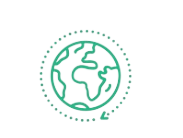
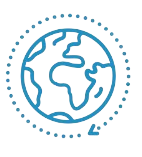
101

diff --git a/src/assets/components/Navbar.jsx b/src/assets/components/Navbar.jsx
@@ -22,47 +22,47 @@ const Navbar = ({ scrollToHome, scrollToAbout, scrollToPortfolio, scrollToServic
   };
 
   return (
-    <nav className="flex justify-between items-center p-4 bg-text shadow-md md:h-auto sm:h-auto h-[10vh]">
+    <nav className="flex justify-between items-center p-4 bg-nav shadow-md md:h-auto sm:h-auto h-[10vh]">
       <div className="flex items-center">
         <img src={Logo} alt="Logo" className="mr-2 pl-2 sm:pl-9" style={{ height: '76px', width: 'auto' }} />
         <div className="hidden lg:flex flex-wrap">
           <h3
-            className={`Montserrat text-sm font-normal px-2 sm:px-4 ${activeLink === 'home' ? 'text-accent border-b-2 border-accent' : 'text-primary'}`}
+            className={`Montserrat text-sm font-normal px-2 sm:px-4 ${activeLink === 'home' ? 'text-cl border-b-2 border-cl' : 'text-primary'}`}
             onClick={() => handleClick('home')}
             style={{ cursor: 'pointer' }}
           >
             Home
           </h3>
           <h3
-            className={`Montserrat text-sm font-normal px-2 sm:px-4 ${activeLink === 'about' ? 'text-accent border-b-2 border-accent' : 'text-primary'}`}
+            className={`Montserrat text-sm font-normal px-2 sm:px-4 ${activeLink === 'about' ? 'text-cl border-b-2 border-cl' : 'text-primary'}`}
             onClick={() => handleClick('about')}
             style={{ cursor: 'pointer' }}
           >
             About Us
           </h3>
           <h3
-            className={`Montserrat text-sm font-normal px-2 sm:px-4 ${activeLink === 'portfolio' ? 'text-accent border-b-2 border-accent' : 'text-primary'}`}
+            className={`Montserrat text-sm font-normal px-2 sm:px-4 ${activeLink === 'portfolio' ? 'text-cl border-b-2 border-cl' : 'text-primary'}`}
             onClick={() => handleClick('portfolio')}
             style={{ cursor: 'pointer' }}
           >
             Portfolio
           </h3>
           <h3
-            className={`Montserrat text-sm font-normal px-2 sm:px-4 ${activeLink === 'services' ? 'text-accent border-b-2 border-accent' : 'text-primary'}`}
+            className={`Montserrat text-sm font-normal px-2 sm:px-4 ${activeLink === 'services' ? 'text-cl border-b-2 border-cl' : 'text-primary'}`}
             onClick={() => handleClick('services')}
             style={{ cursor: 'pointer' }}
           >
             Services
           </h3>
           <h3
-            className={`Montserrat text-sm font-normal px-2 sm:px-4 ${activeLink === 'caseStudies' ? 'text-accent border-b-2 border-accent' : 'text-primary'}`}
+            className={`Montserrat text-sm font-normal px-2 sm:px-4 ${activeLink === 'caseStudies' ? 'text-cl border-b-2 border-cl' : 'text-primary'}`}
             onClick={() => handleClick('caseStudies')}
             style={{ cursor: 'pointer' }}
           >
             Case Studies
           </h3>
           <h3
-            className={`Montserrat text-sm font-normal px-2 sm:px-4 ${activeLink === 'blog' ? 'text-accent border-b-2 border-accent' : 'text-primary'}`}
+            className={`Montserrat text-sm font-normal px-2 sm:px-4 ${activeLink === 'blog' ? 'text-cl border-b-2 border-cl' : 'text-primary'}`}
             onClick={() => handleClick('blog')}
             style={{ cursor: 'pointer' }}
           >
@@ -73,7 +73,7 @@ const Navbar = ({ scrollToHome, scrollToAbout, scrollToPortfolio, scrollToServic
       <div className="flex items-center">
         <a
           href="https://docs.google.com/forms/d/e/1FAIpQLSca1d_VziUAaJkVwPme1GjK-yVKLrc14dqsjOec8dl1GIcxWg/viewform"
-          className="bg-accent/90 hover:bg-accent/100 text-white font-bold py-2 px-4 rounded-lg hidden lg:block"
+          className="bg-cl/90 hover:bg-cl/100 text-white font-bold py-2 px-4 rounded-lg hidden lg:block"
           style={{ marginRight: '1rem' }}
         >
           Start Now
@@ -88,42 +88,42 @@ const Navbar = ({ scrollToHome, scrollToAbout, scrollToPortfolio, scrollToServic
       {isDropdownOpen && (
         <div className="lg:hidden flex flex-col items-end bg-black text-white w-48 absolute right-0 py-2 shadow-md z-10" style={{ top: 'calc(100% + 1rem)' }}>
           <h3
-            className={`Montserrat text-sm font-normal px-4 py-2 w-full ${activeLink === 'home' ? 'text-accent border-b-2 border-accent' : 'text-white'}`}
+            className={`Montserrat text-sm font-normal px-4 py-2 w-full ${activeLink === 'home' ? 'text-cl border-b-2 border-cl' : 'text-white'}`}
             onClick={() => handleClick('home')}
             style={{ cursor: 'pointer' }}
           >
             Home
           </h3>
           <h3
-            className={`Montserrat text-sm font-normal px-4 py-2 w-full ${activeLink === 'about' ? 'text-accent border-b-2 border-accent' : 'text-white'}`}
+            className={`Montserrat text-sm font-normal px-4 py-2 w-full ${activeLink === 'about' ? 'text-cl border-b-2 border-cl' : 'text-white'}`}
             onClick={() => handleClick('about')}
             style={{ cursor: 'pointer' }}
           >
             About Us
           </h3>
           <h3
-            className={`Montserrat text-sm font-normal px-4 py-2 w-full ${activeLink === 'portfolio' ? 'text-accent border-b-2 border-accent' : 'text-white'}`}
+            className={`Montserrat text-sm font-normal px-4 py-2 w-full ${activeLink === 'portfolio' ? 'text-cl border-b-2 border-cl' : 'text-white'}`}
             onClick={() => handleClick('portfolio')}
             style={{ cursor: 'pointer' }}
           >
             Portfolio
           </h3>
           <h3
-            className={`Montserrat text-sm font-normal px-4 py-2 w-full ${activeLink === 'services' ? 'text-accent border-b-2 border-accent' : 'text-white'}`}
+            className={`Montserrat text-sm font-normal px-4 py-2 w-full ${activeLink === 'services' ? 'text-cl border-b-2 border-cl' : 'text-white'}`}
             onClick={() => handleClick('services')}
             style={{ cursor: 'pointer' }}
           >
             Services
           </h3>
           <h3
-            className={`Montserrat text-sm font-normal px-4 py-2 w-full ${activeLink === 'caseStudies' ? 'text-accent border-b-2 border-accent' : 'text-white'}`}
+            className={`Montserrat text-sm font-normal px-4 py-2 w-full ${activeLink === 'caseStudies' ? 'text-cl border-b-2 border-cl' : 'text-white'}`}
             onClick={() => handleClick('caseStudies')}
             style={{ cursor: 'pointer' }}
           >
             Case Studies
           </h3>
           <h3
-            className={`Montserrat text-sm font-normal px-4 py-2 w-full ${activeLink === 'blog' ? 'text-accent border-b-2 border-accent' : 'text-white'}`}
+            className={`Montserrat text-sm font-normal px-4 py-2 w-full ${activeLink === 'blog' ? 'text-cl border-b-2 border-cl' : 'text-white'}`}
             onClick={() => handleClick('blog')}
             style={{ cursor: 'pointer' }}
           >

diff --git a/src/assets/components/Services.jsx b/src/assets/components/Services.jsx
@@ -122,10 +122,10 @@ const Services = () => {
 
   return (
     <section className="about-us flex flex-col items-center py-10 px-4 md:px-10" style={{ paddingTop: '4rem' }}>
-      <h2 className="Monsterrat text-5xl md:text-3xl justify-center font-bold text-accent text-center">
-        We Provide <span className="text-5xl md:text-3xl font-light text-accent">videos in following</span>
+      <h2 className="Monsterrat text-5xl md:text-3xl justify-center font-bold text-cl text-center">
+        We Provide <span className="text-5xl md:text-3xl font-light text-cl">videos in following</span>
       </h2>
-      <h2 className="Monsterrat text-5xl md:text-3xl justify-center font-light mt-2 mb-12 text-accent text-center" style={{ paddingBottom: '4rem' }}>
+      <h2 className="Monsterrat text-5xl md:text-3xl justify-center font-light mt-2 mb-12 text-cl text-center" style={{ paddingBottom: '4rem' }}>
         industries
       </h2>
       <div className="flex flex-wrap justify-center mt-4">
@@ -135,7 +135,7 @@ const Services = () => {
           return (
             <div
               key={index}
-              className={`Monsterrat mx-2 md:mx-4 cursor-pointer font-semibold text-center ${selectedHeading === heading ? 'text-green-500 border-b-2 border-green-500' : ''}`}
+              className={`Monsterrat mx-2 md:mx-4 cursor-pointer font-semibold text-center ${selectedHeading === heading ? 'text-cl border-b-2 border-cl' : ''}`}
               onClick={() => {
                 setSelectedHeading(heading);
                 setCurrentImageGroup(0);
@@ -174,7 +174,7 @@ const Services = () => {
           {[...Array(totalGroups)].map((_, index) => (
             <div
               key={index}
-              className={`mx-1 md:mx-2 cursor-pointer rounded-full w-3 h-3 md:w-4 md:h-4 ${currentImageGroup === index ? 'bg-green-500' : 'bg-gray-300'}`}
+              className={`mx-1 md:mx-2 cursor-pointer rounded-full w-3 h-3 md:w-4 md:h-4 ${currentImageGroup === index ? 'bg-cl' : 'bg-gray-300'}`}
               onClick={() => setCurrentImageGroup(index)}
             ></div>
           ))}

diff --git a/src/assets/components/AboutUs.jsx b/src/assets/components/AboutUs.jsx
@@ -30,8 +30,8 @@ const AboutUs = () => {
 
   return (
     <section className="about-us flex flex-col items-center py-10" style={{ paddingTop: '7rem' }}>
-      <h2 className="text-5xl md:text-3xl font-bold mb-8 text-accent" style={{ paddingBottom: '7rem' }}>What We Do</h2>
-      <div className="bg-gray-100 p-10 rounded-lg w-full flex flex-col items-center justify-center">
+      <h2 className="text-5xl md:text-3xl font-bold mb-8 text-cl" style={{ paddingBottom: '7rem' }}>What We Do</h2>
+      <div className="bg-gray-50 shadow-lg p-10 rounded-lg w-full flex flex-col items-center justify-center">
         <div className="Monsterrat max-w-3xl text-center mb-12">
           <p className="Monsterrat text-lg md:text-base">
             LetsArc Media offer our video making services which not only put forward your products and offerings to your target audience but it also conveys your thoughts, your philosophy, and your passion to them. Our videos, apart from being eye-catchy, also make an impact which in turn gets your company, product, or services registered in the mind of the audience. Our each video contains these four elements abbreviated as COSE.
@@ -44,7 +44,7 @@ const AboutUs = () => {
                 <img src={card.imgSrc} alt={card.title} className="mb-2" style={{ height: '15vh' }} />
                 <p className="text-ab">{card.title}</p>
               </div>
-              <div className="box-back absolute w-full h-full shadow-xl backface-hidden transform rotate-y-180 transition-transform duration-200 flex flex-col items-center justify-center bg-accent p-4 border border-gray-300 rounded-lg "style={{width:'115%',height:'115%'}}>
+              <div className="box-back absolute w-full h-full shadow-xl backface-hidden transform rotate-y-180 transition-transform duration-200 flex flex-col items-center justify-center bg-cl p-4 border border-gray-300 rounded-lg "style={{width:'115%',height:'115%'}}>
                 <p className="text-white text-base">{card.description}</p>
               </div>
             </div>

diff --git a/src/assets/components/Have.jsx b/src/assets/components/Have.jsx
@@ -9,11 +9,11 @@ const texts = ['Fill Our Contact Form', 'You Will Be Contacted By Our Experts', 
 const Have = () => {
   return (
     <section className="about-us flex flex-col items-center py-10 pt-28">
-      <h2 className="text-5xl md:text-3xl font-bold text-accent text-center pb-16">Have a Project?</h2>
+      <h2 className="text-5xl md:text-3xl font-bold text-cl text-center pb-16">Have a Project?</h2>
       <div className="p-6 md:p-10 rounded-lg w-full flex flex-col items-center justify-center min-h-[70vh]">
-        <div className="grid grid-cols-2 md:grid-cols-4 lg:grid-cols-4 gap-8 md:gap-12 -mt-16">
+        <div className="grid grid-cols-2 md:grid-cols-4 lg:grid-cols-4 gap-10 md:gap-12 -mt-16">
           {[Img1, Img2, Img3, Img4].map((imgSrc, index) => (
-            <div key={index} className="relative w-full h-auto lg:w-56 lg:h-96 md:w-44 md:h-48 sm:w-28 sm:h-40">
+            <div key={index} className="relative w-full h-auto lg:w-60 lg:h-96 md:w-44 md:h-48 sm:w-28 sm:h-40">
               <img src={imgSrc} alt={`Process ${index + 1}`} className="w-full h-full object-cover rounded-xl md:h-60"style={{height:'32rem'}} />
               <div className="absolute inset-0 flex items-center justify-center">
                 <p className="Monsterrat text-black text-xs sm:text-sm md:text-base lg:text-lg font-semibold text-center lg:pt-40 md:pt-80">
@@ -25,7 +25,7 @@ const Have = () => {
         </div>
         <a
           href="https://docs.google.com/forms/d/e/1FAIpQLSca1d_VziUAaJkVwPme1GjK-yVKLrc14dqsjOec8dl1GIcxWg/viewform"
-          className="bg-accent/90 hover:bg-accent/100 text-white font-bold py-4 px-6 md:px-12 rounded-xl items-center justify-center text-center lg:translate-y-40 mt-1 mb-16 md:mt-96"
+          className="bg-cl/90 hover:bg-cl/100 text-white font-bold py-4 px-6 md:px-12 rounded-xl items-center justify-center text-center lg:translate-y-40 mt-1 mb-16 md:mt-96"
           style={{ position: 'relative', zIndex: '5' }}
         >
           Fill Your Project Details

diff --git a/src/assets/components/Portfolio.jsx b/src/assets/components/Portfolio.jsx
@@ -76,18 +76,18 @@ const Portfolio = () => {
         <div className="relative py-10 rounded-lg" style={{ height: '35rem' }}>
           <div className="icon-frame flex justify-around py-5 bg-gray-100 rounded-2xl z-20 shadow-xl mx-auto absolute pt-14 top-0 left-1/2 transform -translate-x-1/2" style={{ width: '50%', zIndex: 20, height: '15rem' }}>
             <div className="icon-item text-center">
-              <img src={Icon1} alt="Icon 1" className="h-16 mb-1 ml-6" />
-              <h3 className="Montserrat font-bold text-2xl text-gray-400" style={{ paddingBottom: '0.5rem' }}>200+ </h3>
+              <img src={Icon1} alt="Icon 1" className="h-16 mb-1 ml-8" />
+              <h3 className="Montserrat font-bold text-2xl text-ds/80" style={{ paddingBottom: '0.5rem' }}>200+ </h3>
               <p className="Montserrat text-sm">Client Videos Made</p>
             </div>
             <div className="icon-item text-center">
-              <img src={Icon2} alt="Icon 2" className="h-16 mb-1 ml-6" />
-              <h3 className="Montserrat font-bold text-2xl text-gray-400" style={{ paddingBottom: '0.5rem' }}>2+</h3>
+              <img src={Icon2} alt="Icon 2" className="h-16 mb-1 ml-9" />
+              <h3 className="Montserrat font-bold text-2xl text-ds/80" style={{ paddingBottom: '0.5rem' }}>2+</h3>
               <p className="Montserrat text-sm">Available Countries</p>
             </div>
             <div className="icon-item text-center">
-              <img src={Icon3} alt="Icon 3" className="h-16 mb-1 ml-9" />
-              <h3 className="Montserrat font-bold text-2xl text-gray-400" style={{ paddingBottom: '0.5rem' }}>5+</h3>
+              <img src={Icon3} alt="Icon 3" className="h-16 mb-1 ml-11" />
+              <h3 className="Montserrat font-bold text-2xl text-ds/80" style={{ paddingBottom: '0.5rem' }}>5+</h3>
               <p className="Montserrat text-sm">Years of Experienced Team</p>
             </div>
           </div>

diff --git a/src/assets/components/Start.jsx b/src/assets/components/Start.jsx
@@ -3,8 +3,8 @@ import React from 'react';
 const Start = () => {
   return (
     <section className="about-us flex flex-col items-center py-10" style={{ paddingTop: '7rem' }}>
-      <h2 className="text-5xl md:text-3xl font-bold mb-8 text-accent" style={{ paddingBottom: '7rem' }}>Start Now</h2>
-      <div className="bg-gray-100 p-6 md:p-10 rounded-lg w-full flex flex-col items-center justify-center h-[70vh] md:h-auto sm:h-[40vh]">
+      <h2 className="text-5xl md:text-3xl font-bold mb-8 text-cl" style={{ paddingBottom: '7rem' }}>Start Now</h2>
+      <div className="bg-gray-50 shadow-lg p-6 md:p-10 rounded-lg w-full flex flex-col items-center justify-center h-[70vh] md:h-auto sm:h-[40vh]">
         <div className="Montserrat max-w-2xl text-center mb-8">
           <p className="Montserrat text-2xl font-medium md:text-lg md:font-normal">
             Connect with our experts to make dedicated videos for you and your business so that you can have an edge above others.
@@ -12,7 +12,7 @@ const Start = () => {
         </div>
         <a
           href="https://docs.google.com/forms/d/e/1FAIpQLSca1d_VziUAaJkVwPme1GjK-yVKLrc14dqsjOec8dl1GIcxWg/viewform"
-          className="bg-accent/90 hover:bg-accent/100 text-white font-bold py-4 px-12 md:py-2 md:px-8 rounded-xl"
+          className="bg-cl/90 hover:bg-cl/100 text-white font-bold py-4 px-12 md:py-2 md:px-8 rounded-xl"
           style={{ position: 'relative', zIndex: '5' }}
         >
           Fill Your Project Details

diff --git a/src/assets/components/Blog.jsx b/src/assets/components/Blog.jsx
@@ -43,7 +43,7 @@ const Blog = () => {
 
   return (
     <section className="about-us flex flex-col items-center py-10" style={{ paddingTop: '7rem' }}>
-      <h2 className="text-5xl md:text-3xl lg:text-5xl font-bold mb-8 text-accent" style={{ paddingBottom: '4rem' }}>Blog Posts</h2>
+      <h2 className="text-5xl md:text-3xl lg:text-5xl font-bold mb-8 text-cl" style={{ paddingBottom: '4rem' }}>Blog Posts</h2>
       <div className="bg-black p-4 md:p-6 lg:p-10 rounded-lg w-full flex flex-col items-center justify-center md:h-auto sm:h-auto h-[85vh]">
         <div className="grid grid-cols-5 sm:grid-cols-2 md:grid-cols-3 gap-2 md:gap-4">
           {groups[currentIndex].map((image, index) => (
@@ -61,7 +61,7 @@ const Blog = () => {
             <span
               key={index}
               onClick={() => setCurrentIndex(index)}
-              className={`h-2 w-2 md:h-3 md:w-3 lg:h-4 lg:w-4 mx-1 rounded-full cursor-pointer ${index === currentIndex ? 'bg-accent' : 'bg-gray-500'}`}
+              className={`h-2 w-2 md:h-3 md:w-3 lg:h-4 lg:w-4 mx-1 rounded-full cursor-pointer ${index === currentIndex ? 'bg-cl' : 'bg-gray-500'}`}
             />
           ))}
         </div>

diff --git a/src/assets/components/Case.jsx b/src/assets/components/Case.jsx
@@ -54,8 +54,8 @@ const Case = () => {
 
   return (
     <section className="about-us flex flex-col items-center py-10" style={{ paddingTop: '7rem' }}>
-      <h2 className="text-5xl md:text-3xl font-bold mb-8 text-accent text-center" style={{ paddingBottom: '7rem' }}>What Clients Say</h2>
-      <div className="relative bg-gray-100 p-10 md:p-6 rounded-lg w-full flex flex-col items-center justify-center md:h-auto sm:h-auto h-[70vh]">
+      <h2 className="text-5xl md:text-3xl font-bold mb-8 text-cl text-center" style={{ paddingBottom: '7rem' }}>What Clients Say</h2>
+      <div className="relative bg-gray-50 shadow-lg p-10 md:p-6 rounded-lg w-full flex flex-col items-center justify-center md:h-auto sm:h-auto h-[70vh]">
         <div className={`text-center transition-opacity duration-500 ease-in-out ${isAnimating ? 'opacity-0' : 'opacity-100'}`}>
           <p className="Montserrat px-80 md:px-6 text-xl md:text-lg font-medium mb-4">“{reviews[currentReviewIndex].text}”</p>
           <p className="Montserrat text-lg md:text-base font-normal text-ab">{reviews[currentReviewIndex].author}</p>

diff --git a/src/assets/components/Faq.jsx b/src/assets/components/Faq.jsx
@@ -29,7 +29,7 @@ const Faq = () => {
 
   return (
     <section className="about-us flex flex-col items-center py-10" style={{ paddingTop: '7rem' }}>
-      <h2 className="text-5xl md:text-3xl font-bold mb-8 text-accent" style={{ paddingBottom: '7rem' }}>Frequently Asked Questions</h2>
+      <h2 className="text-5xl md:text-3xl font-bold mb-8 text-cl" style={{ paddingBottom: '7rem' }}>Frequently Asked Questions</h2>
       <div className="bg-gray-100 p-6 md:p-10 rounded-lg w-full flex flex-col items-center justify-center h-[70vh] md:h-auto sm:h-auto">
         {faqs.map((faq, index) => (
           <div key={index} className="w-full">

diff --git a/src/assets/components/Footer.jsx b/src/assets/components/Footer.jsx
@@ -5,7 +5,7 @@ import Logo from './images/Logo.png';
 const Footer = () => {
   return (
     <section className="about-us flex flex-col items-center pt-28">
-      <div className="bg-black p-10 w-full flex flex-col items-center justify-center text-white">
+      <div className="bg-nav p-10 w-full flex flex-col items-center justify-center text-white">
         <div className="w-full flex flex-col lg:flex-row justify-between items-start mb-10">
           <div className="flex flex-col items-center mb-6 lg:mb-0">
             <img src={Logo} alt="LetsArc Media" className="Monsterrat mr-2 h-24 sm:h-32 lg:h-44" />

diff --git a/src/assets/components/Header.jsx b/src/assets/components/Header.jsx
@@ -51,7 +51,7 @@ const Header = () => {
             <h1 className="Montserrat font-semibold text-5xl pb-8" style={{ color: 'text' }}>Seamlessly Captured</h1>
             <a
               href="https://docs.google.com/forms/d/e/1FAIpQLSca1d_VziUAaJkVwPme1GjK-yVKLrc14dqsjOec8dl1GIcxWg/viewform"
-              className="bg-accent/90 hover:bg-accent/100 text-white text-xl font-bold py-3 px-6"
+              className="bg-cl/90 hover:bg-cl/100 text-white text-xl font-bold py-3 px-6"
               style={{ borderRadius: '10px' }}
             >
               Start Now

diff --git a/tailwind.config.js b/tailwind.config.js
@@ -14,12 +14,15 @@ const { TbH2 } = require('react-icons/tb');
        lg:"1008px",
       },
       colors:{
+        nav:"#1C207A",
+        cl:"#1F91C2",
         primary: "#D9D9D9",
         secondary: "#FFFFFF",
         accent:"#21B986",
         text: "#000000",
         gr:"#D9D9D9",
         g1:"#585454",
+        ds:"#908383",
         ab:"#776D6D",
       },
       container:{
